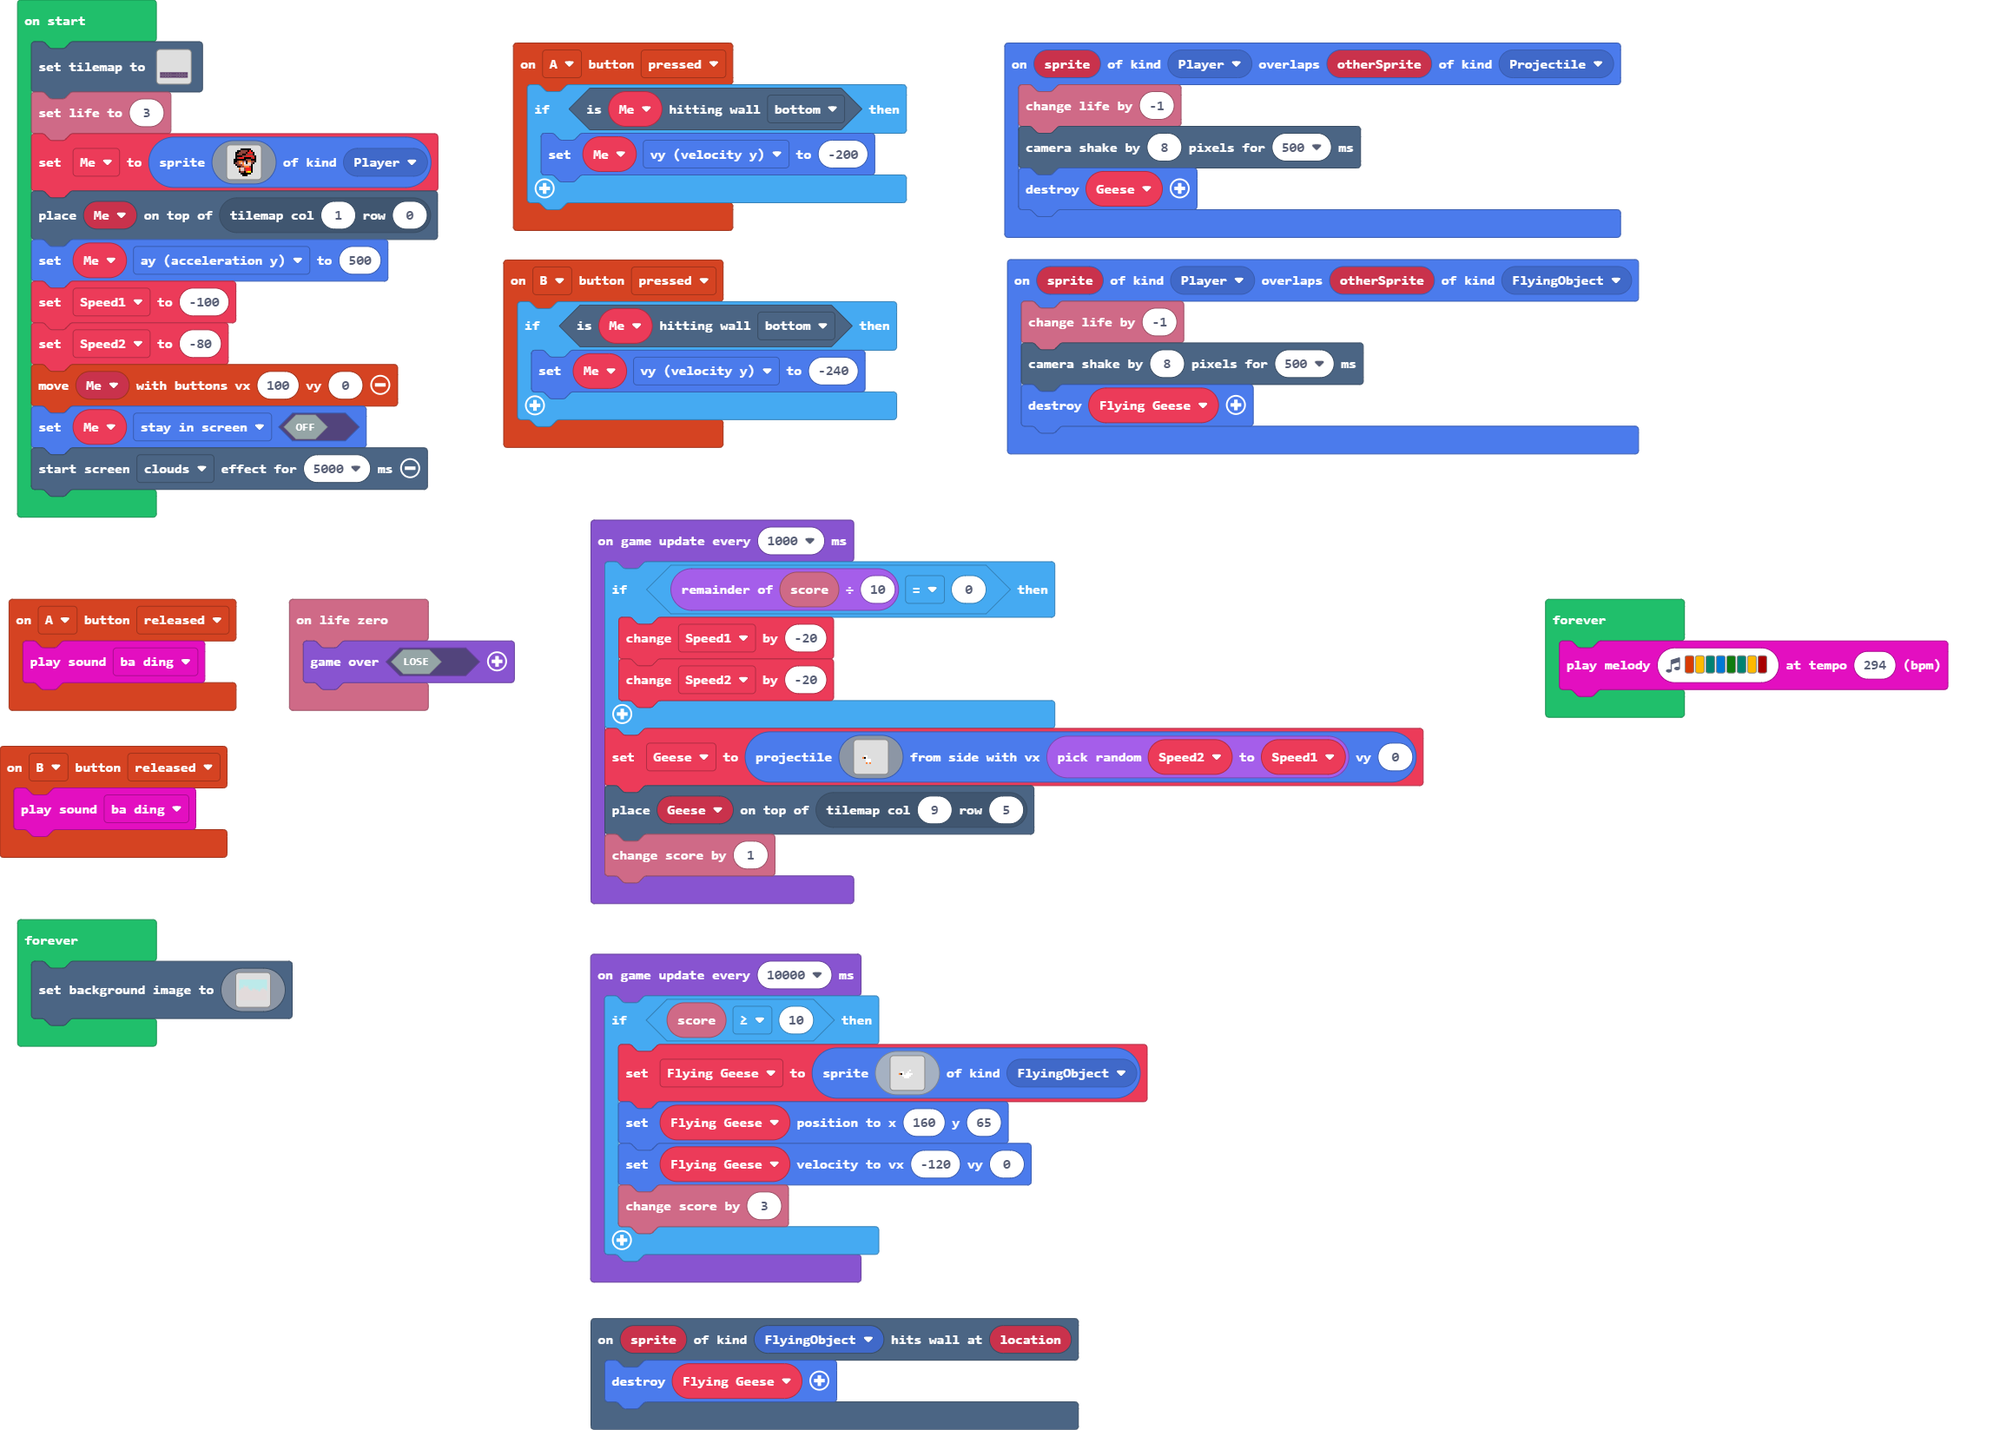
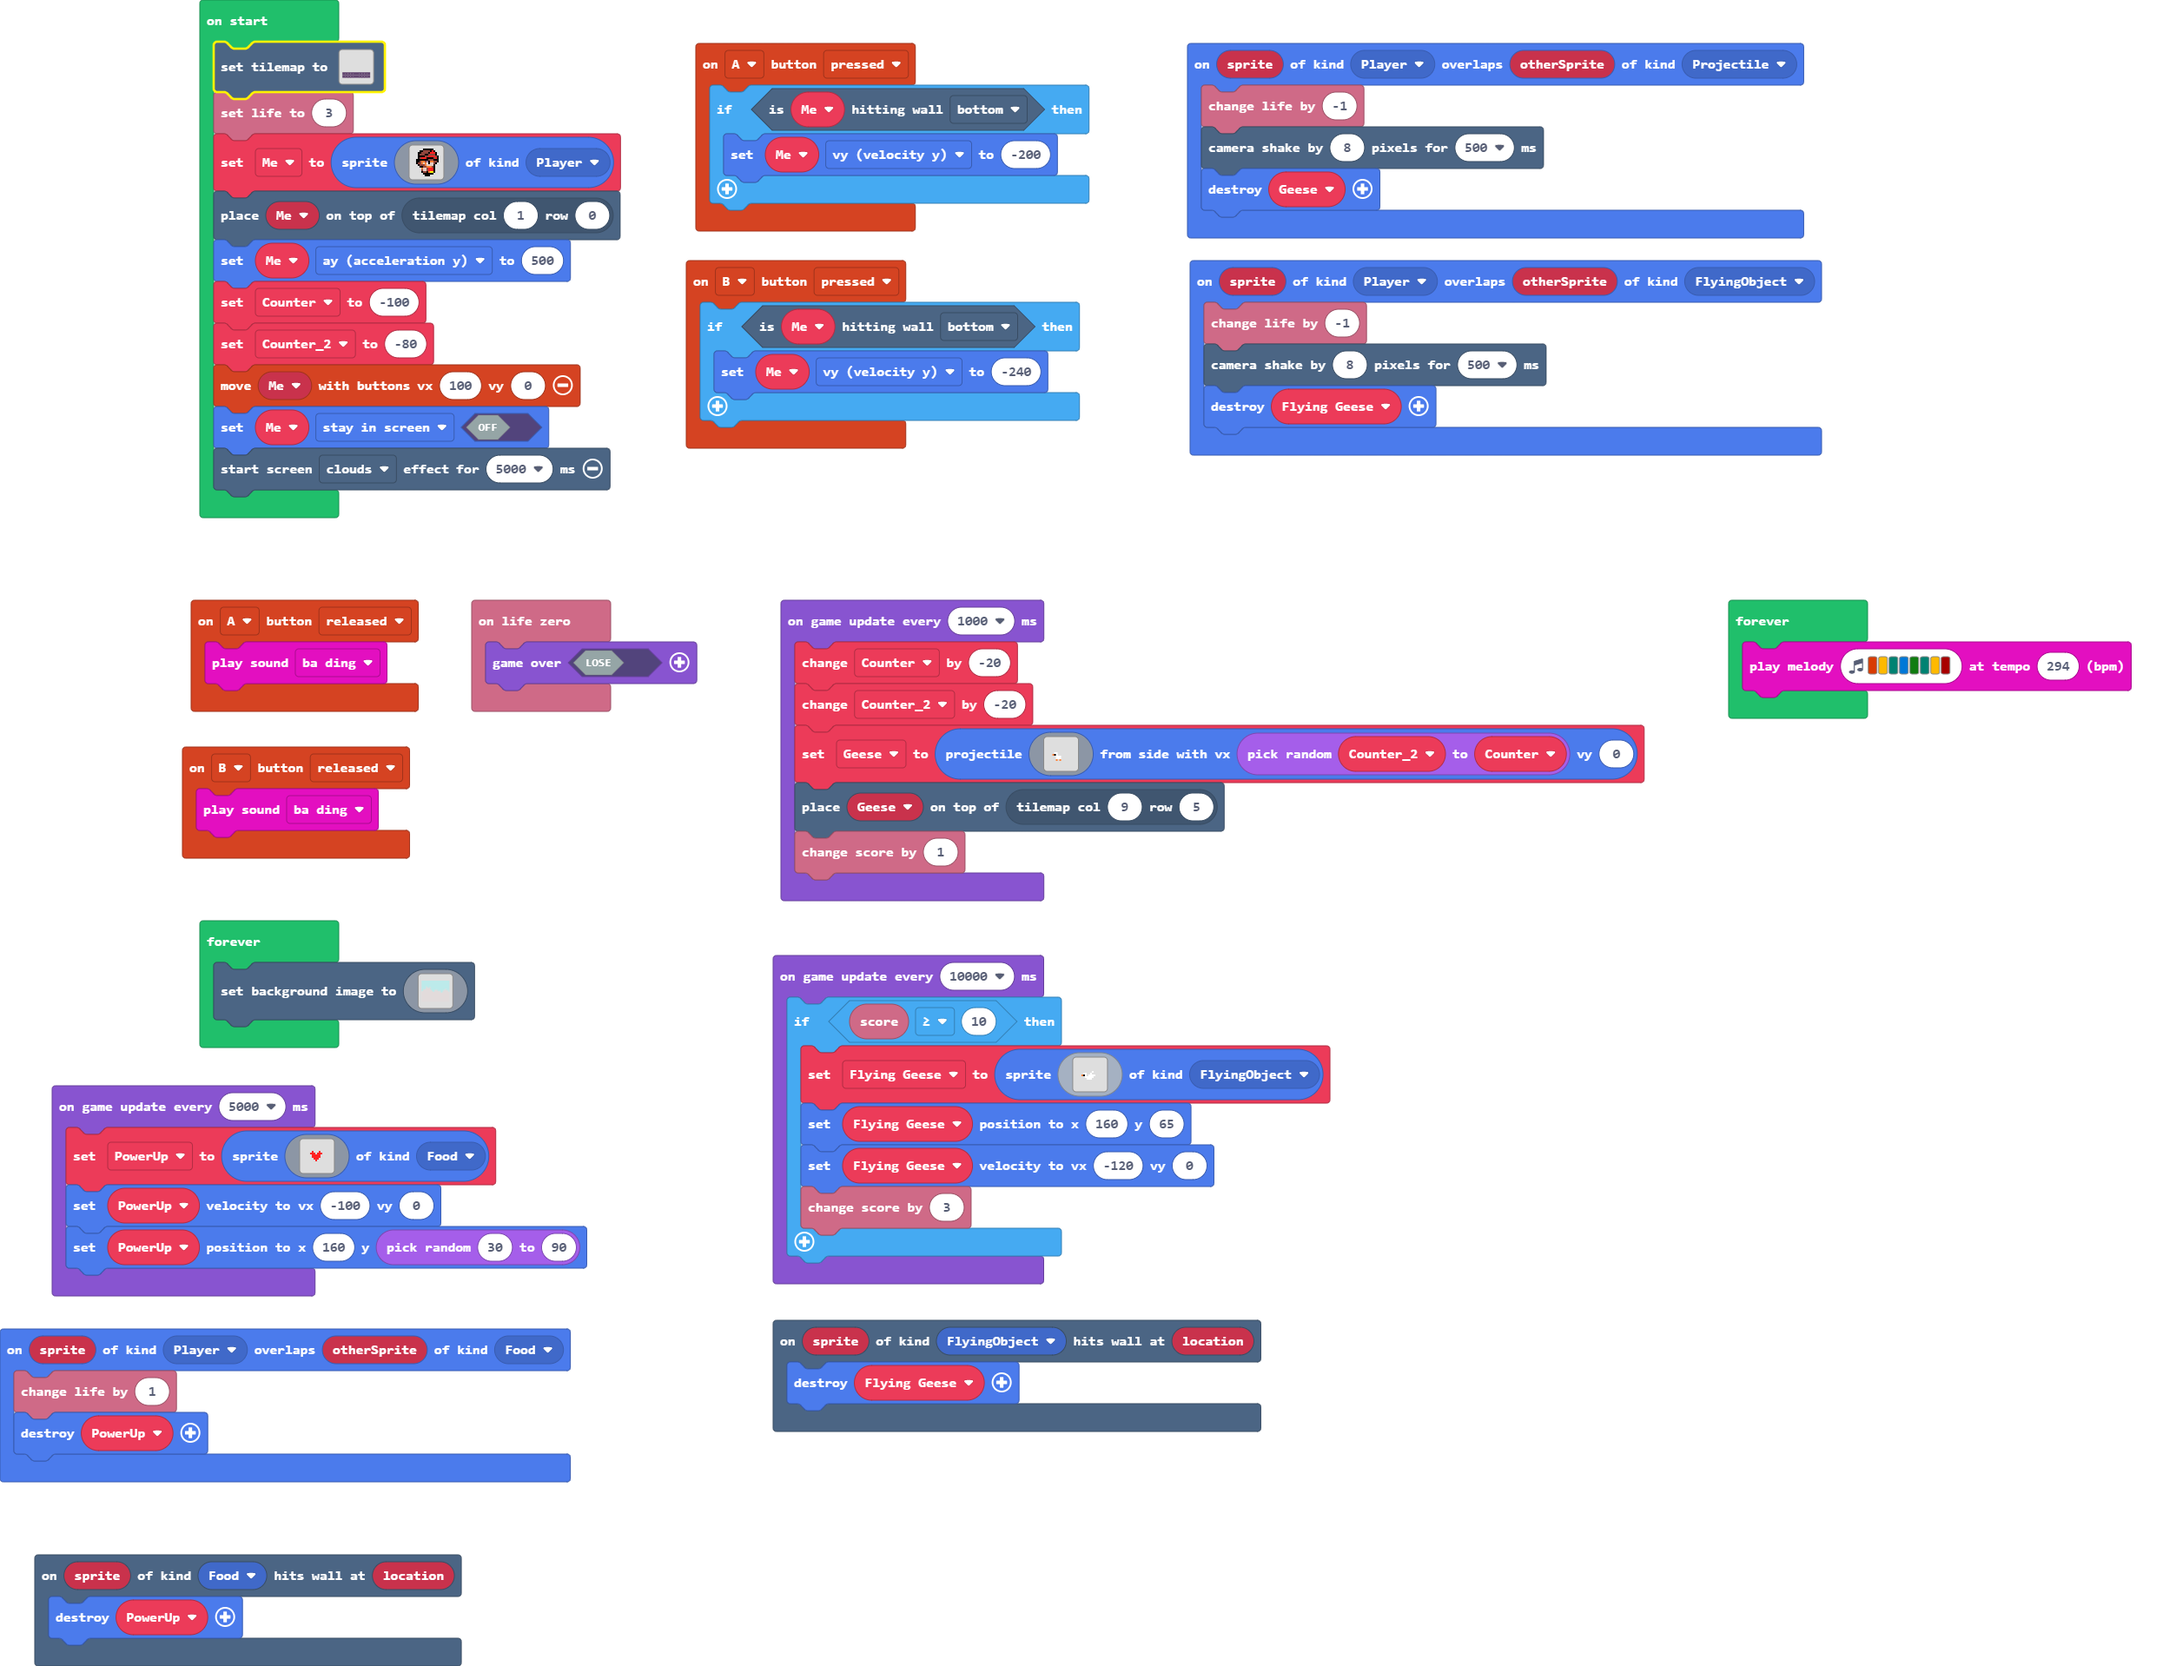
Update main.blocks, main.ts

diff --git a/main.ts b/main.ts
@@ -22,6 +22,9 @@ sprites.onOverlap(SpriteKind.Player, SpriteKind.Projectile, function (sprite, ot
 controller.A.onEvent(ControllerButtonEvent.Released, function () {
     music.baDing.play()
 })
+scene.onHitWall(SpriteKind.Food, function (sprite, location) {
+    PowerUp.destroy()
+})
 info.onLifeZero(function () {
     game.over(false)
 })
@@ -33,6 +36,11 @@ sprites.onOverlap(SpriteKind.Player, SpriteKind.FlyingObject, function (sprite, 
     scene.cameraShake(8, 500)
     Flying_Geese.destroy()
 })
+sprites.onOverlap(SpriteKind.Player, SpriteKind.Food, function (sprite, otherSprite) {
+    info.changeLifeBy(1)
+    PowerUp.destroy()
+})
+let PowerUp: Sprite = null
 let Geese: Sprite = null
 let Flying_Geese: Sprite = null
 let Me: Sprite = null
@@ -72,6 +80,28 @@ let Speed2 = -80
 controller.moveSprite(Me, 100, 0)
 Me.setFlag(SpriteFlag.StayInScreen, false)
 effects.clouds.startScreenEffect(5000)
+game.onUpdateInterval(5000, function () {
+    PowerUp = sprites.create(img`
+        . . . . . . . . . . . . . . . . 
+        . . . . . . . . . . . . . . . . 
+        . . . . . . . . . . . . . . . . 
+        . . . . . . . . . . . . . . . . 
+        . . . . . . . . . . . . . . . . 
+        . . . . . 2 . . . 2 . . . . . . 
+        . . . . 2 2 2 . 2 2 2 . . . . . 
+        . . . . . 2 2 2 2 2 . . . . . . 
+        . . . . . 2 2 2 2 2 . . . . . . 
+        . . . . . . 2 2 2 . . . . . . . 
+        . . . . . . . 2 . . . . . . . . 
+        . . . . . . . . . . . . . . . . 
+        . . . . . . . . . . . . . . . . 
+        . . . . . . . . . . . . . . . . 
+        . . . . . . . . . . . . . . . . 
+        . . . . . . . . . . . . . . . . 
+        `, SpriteKind.Food)
+    PowerUp.setVelocity(-100, 0)
+    PowerUp.setPosition(160, randint(30, 90))
+})
 game.onUpdateInterval(1000, function () {
     if (info.score() % 10 == 0) {
         Speed1 += -20
